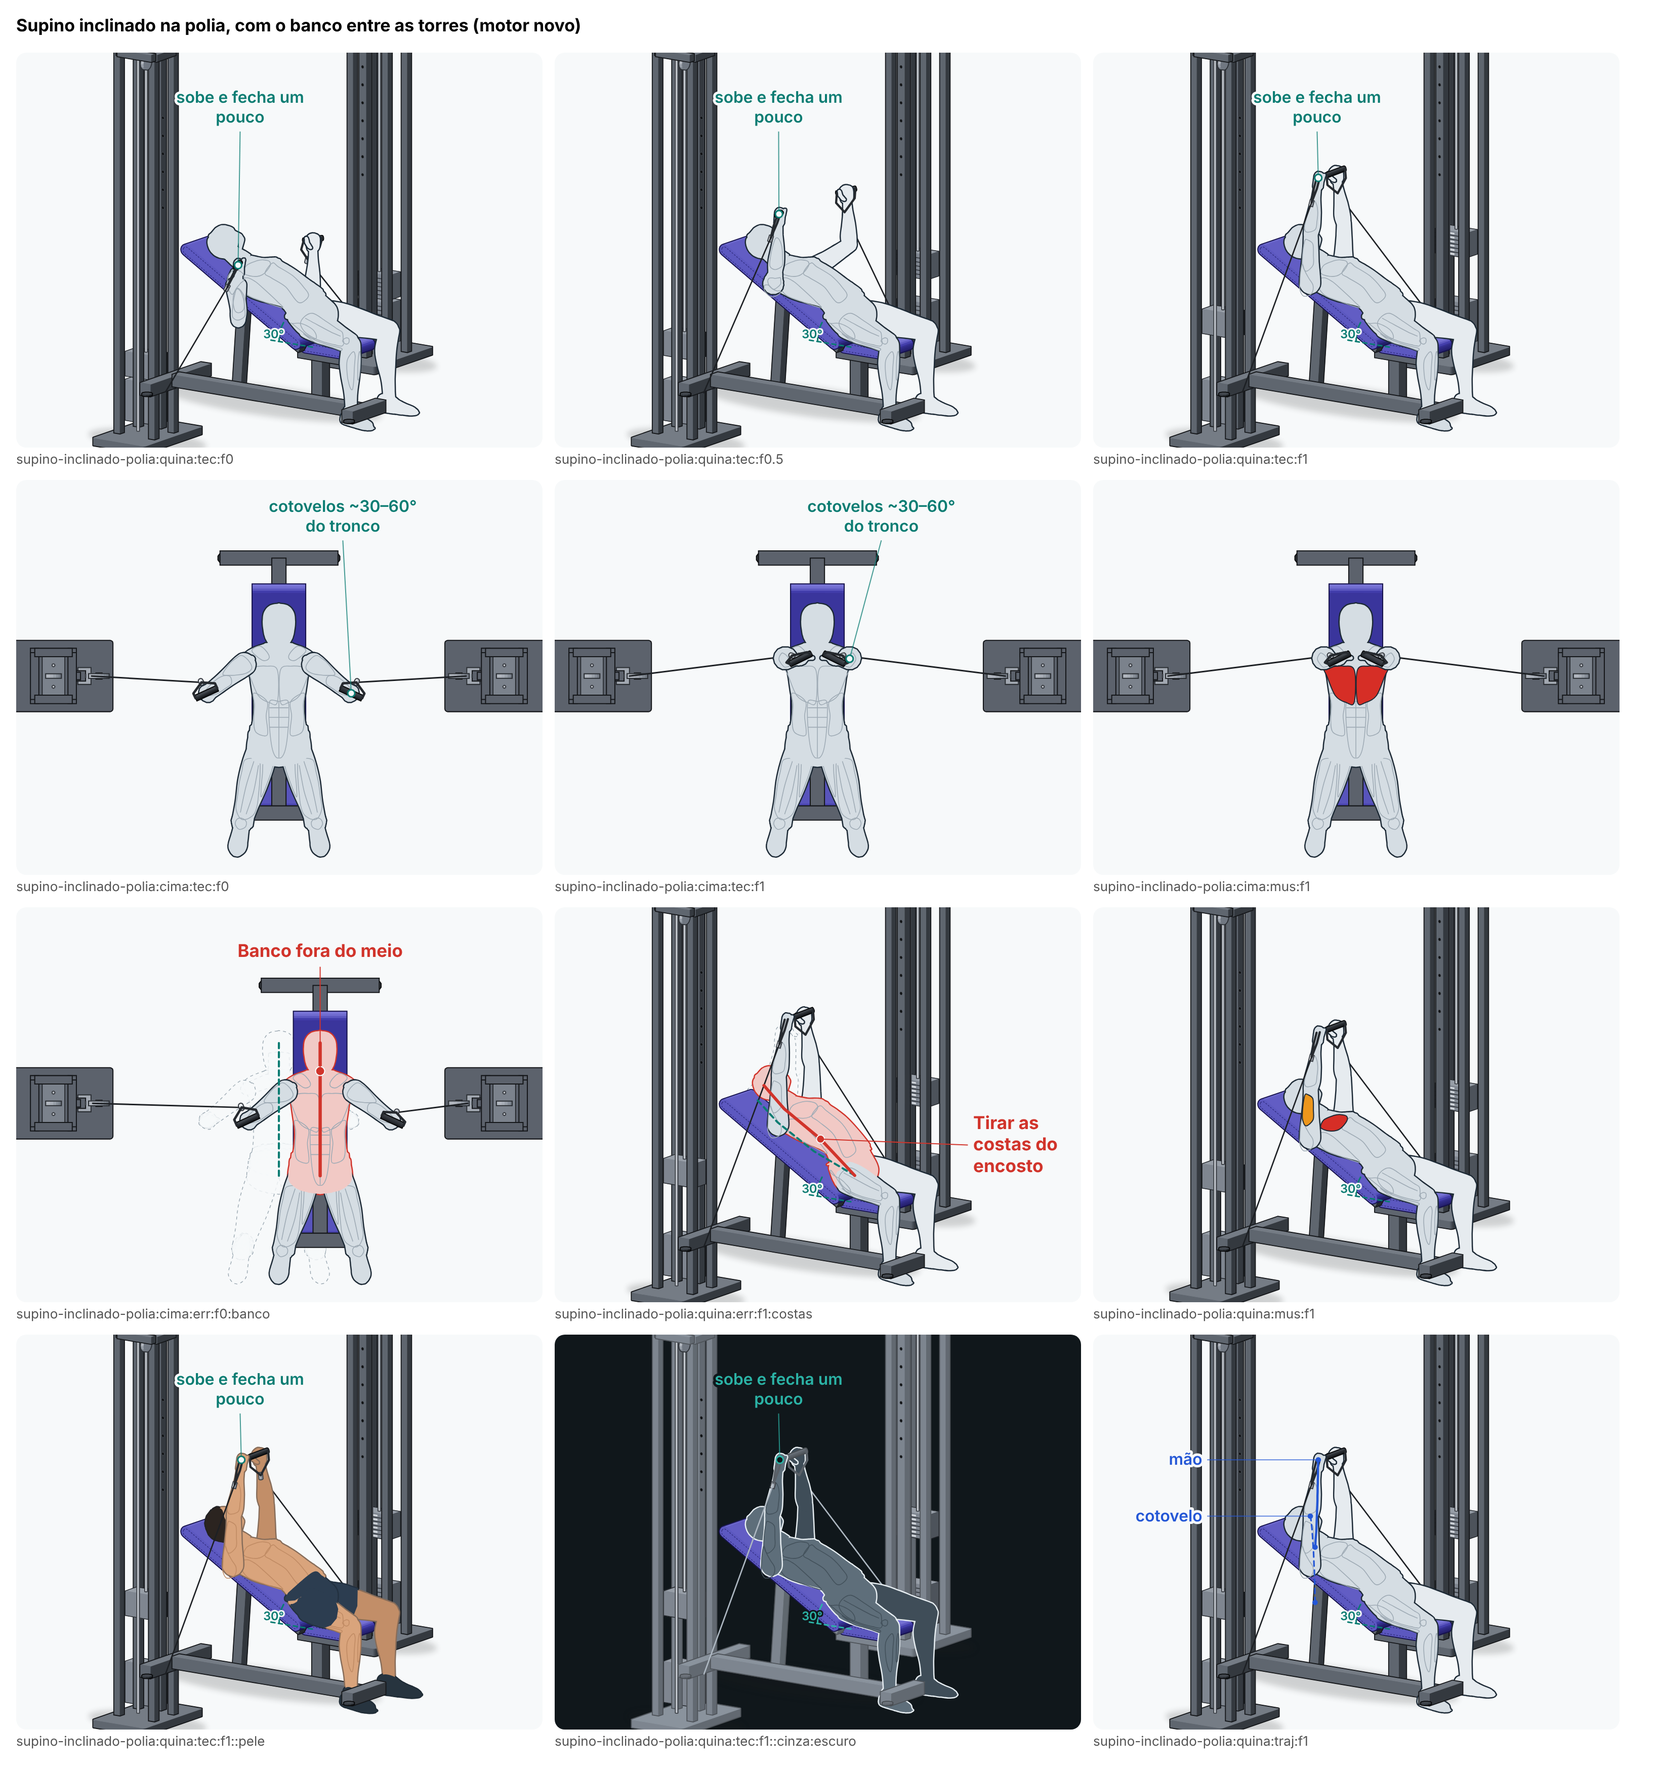
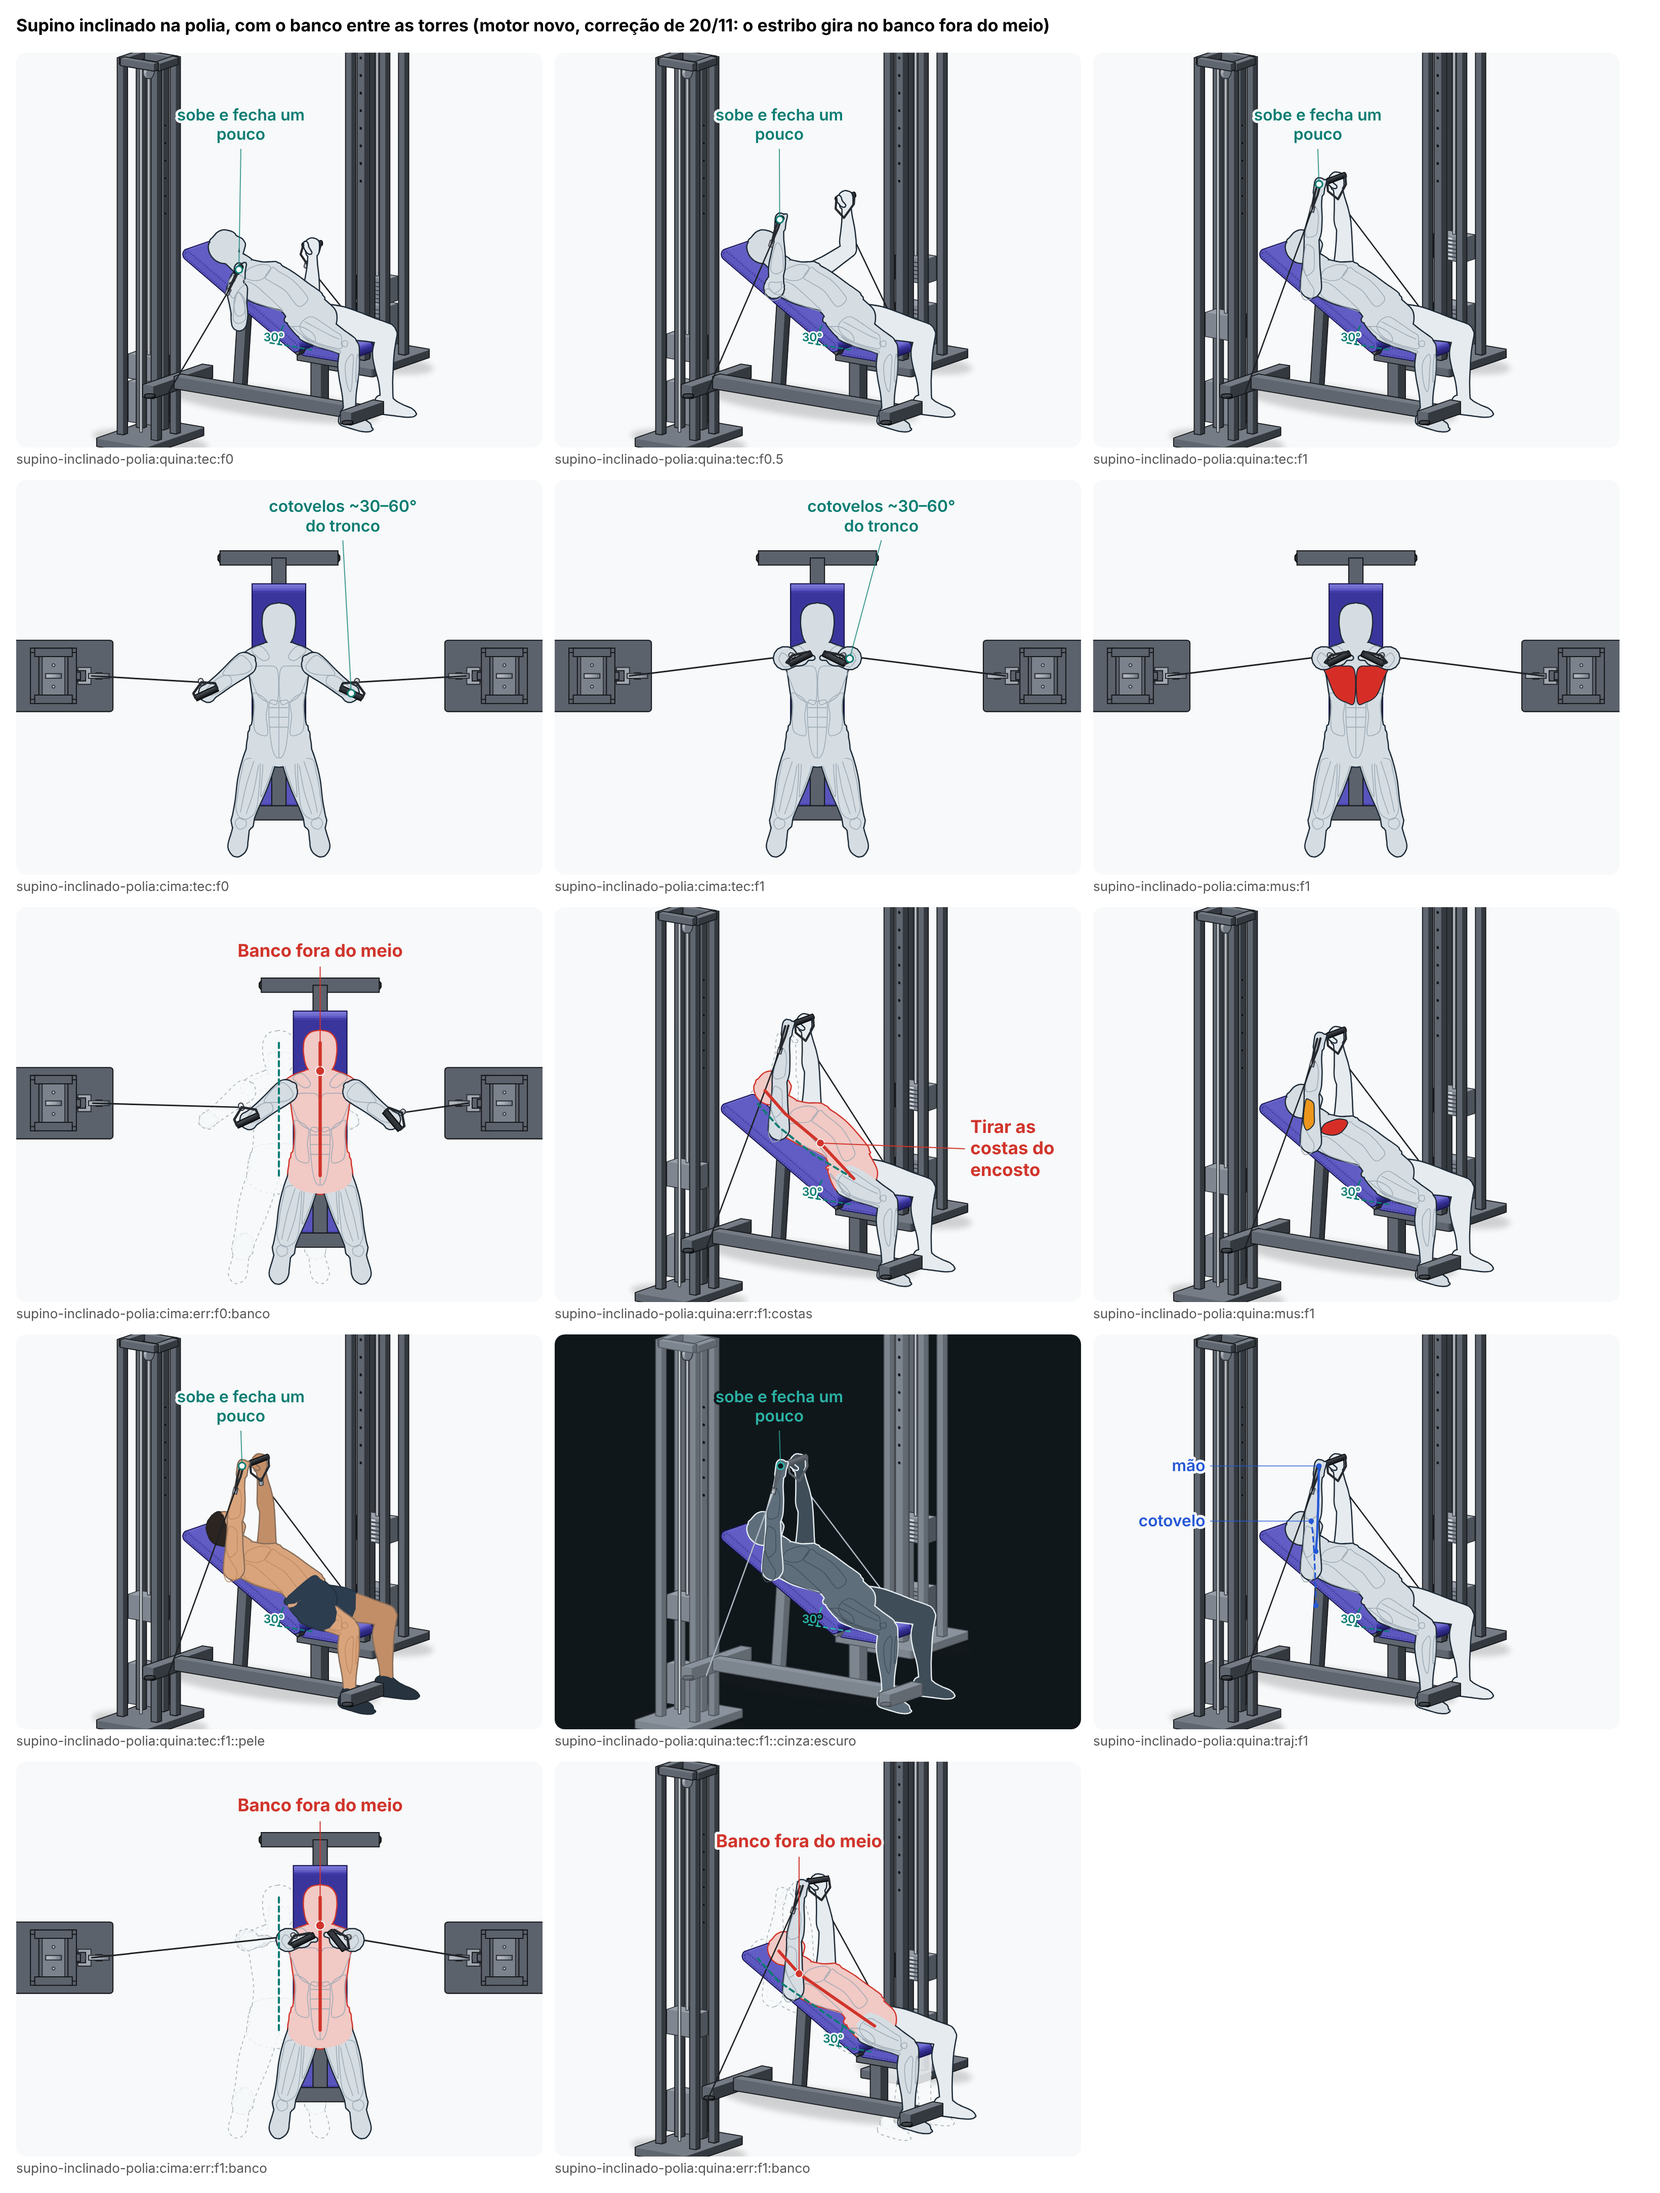
Gira o estribo para o lado do cabo no banco fora do meio do supino inclinado na polia
No erro "Banco fora do meio", com a torre da esquerda mais perto, o cabo
sobe mais em pé, rente ao antebraço, e o cabo e a fita do estribo entravam
1,7 cm no antebraço esquerdo no topo. Nesse erro, a mão do lado mais perto
gira o estribo para o lado do cabo (erro.banco.giro, as palmas a 50°; no
certo, 25°) e o cabo passa por fora do antebraço. O banco continua 22 cm
fora do meio. A ficha liga cabos-fora-do-corpo-nos-erros.

Claude-Session: https://claude.ai/code/session_01YRzts8DBGbsca9onebcMt1

diff --git a/docs/revisoes/animacao-nova/lote-A5/supino-inclinado-polia.md b/docs/revisoes/animacao-nova/lote-A5/supino-inclinado-polia.md
@@ -61,3 +61,24 @@ Não há correção registrada para este exercício em `correcoes-ja-feitas.md`.
 - **O cabo passa a 0,8 cm da pele do antebraço** embaixo: não encosta (a regra pede 0,5 cm), mas fica rente.
 - **No erro do banco fora do meio**, o cabo do lado de perto continua reto embaixo, quando na vida real afrouxaria.
 - O encosto pintado por cima do tronco **de frente, no estilo com cor de pele**, é do pintor comum (também no aprovado); esta animação não usa a vista de frente.
+
+## Correção de 20/11 (fio ou peso dentro do corpo)
+
+A conferência dos fios (`conferir-pintura.ts`, tolerância de 1 cm) acusava **o cabo e a fita do estribo 1,7 cm dentro do antebraço esquerdo** no erro "Banco fora do meio", no topo (u = 1).
+
+**A causa, medida.** No erro, o banco e o corpo vão 22 cm para a esquerda: a roldana da esquerda fica a 65 cm da mão na horizontal (no certo, 87 cm), e o cabo sobe mais em pé, a uns 34° da vertical, rente ao antebraço esquerdo, que no topo desce do punho para fora a 14° da vertical. O estribo só gira em volta da pegada: com as palmas a 25° uma para a outra, o elo fica quase embaixo da mão, junto do punho, e dali a fita e o cabo atravessavam o antebraço de 6,5 a 13 cm do punho. Diminuir o desvio não resolvia: com o banco 12 cm fora do meio, o cabo ainda entrava 1,2 cm. Endireitar o antebraço esquerdo (sem os 14° para dentro) também resolvia, mas deixava a mão 6,5 cm mais para fora; fiquei com o giro da pegada, que muda menos.
+
+**A mudança.** No erro, a mão do lado da torre mais perto (a esquerda) gira o estribo para o lado do cabo: as palmas a 50° (`erro.banco.giro`; no certo e na mão direita, 25°). O elo sai do lado do antebraço e o cabo passa por fora dele. O banco continua 22 cm fora do meio (o erro não diminuiu); o resto do corpo, o ciclo e o outro erro não mudam.
+
+| medido (homem) | antes | depois |
+|---|---|---|
+| o cabo e a fita do estribo dentro do antebraço esquerdo, conferência dos fios (erro "Banco fora do meio", u = 1) | 1,7 cm | 0 (nada além da tolerância) |
+| regra `cabos-fora-do-corpo-nos-erros`, erro "Banco fora do meio" | entra 1,7 cm (o cabo, no antebraço esquerdo) | passa a no mínimo 0,1 cm da pele |
+| a mesma regra, erro "Tirar as costas do encosto" | entra 0,4 cm | entra 0,4 cm |
+| pintura: achados e área somada | 10, 76,8 cm² | 9, 75,3 cm² |
+
+A ficha liga `cabos-fora-do-corpo-nos-erros`: no estado de antes ela falha; no de agora, passa. Na pintura, nenhum achado cresceu (o do antebraço esquerdo de cima sobre o estribo sumiu; o do estribo sobre o antebraço direito, de três quartos, passou de 4 para 3,8 cm²). O antes e depois está em `../correcao-das-antigas/supino-inclinado-polia-fio-ou-peso.png`; os quadros grandes foram regravados com o erro também no topo (`cima:err:f1:banco` e `quina:err:f1:banco`) e olhados de cima e de três quartos, nos dois braços. A conferência automática dá **1 falha e 2 avisos** (antes: 2 falhas, a de fios e a de pintura, e 2 avisos); a de pintura é a de antes. O enquadramento de cima mudou menos de 0,1 cm.
+
+**O que ainda não ficou bom.**
+- No topo do erro, o cabo da esquerda passa rente ao antebraço (0,1 cm da pele, pela regra): não entra, mas encosta. Com as palmas a 45°, entrava 0,2 cm.
+- De cima, no erro, os dois estribos ficam em ângulos diferentes (a esquerda a 50°, a direita a 25°).
